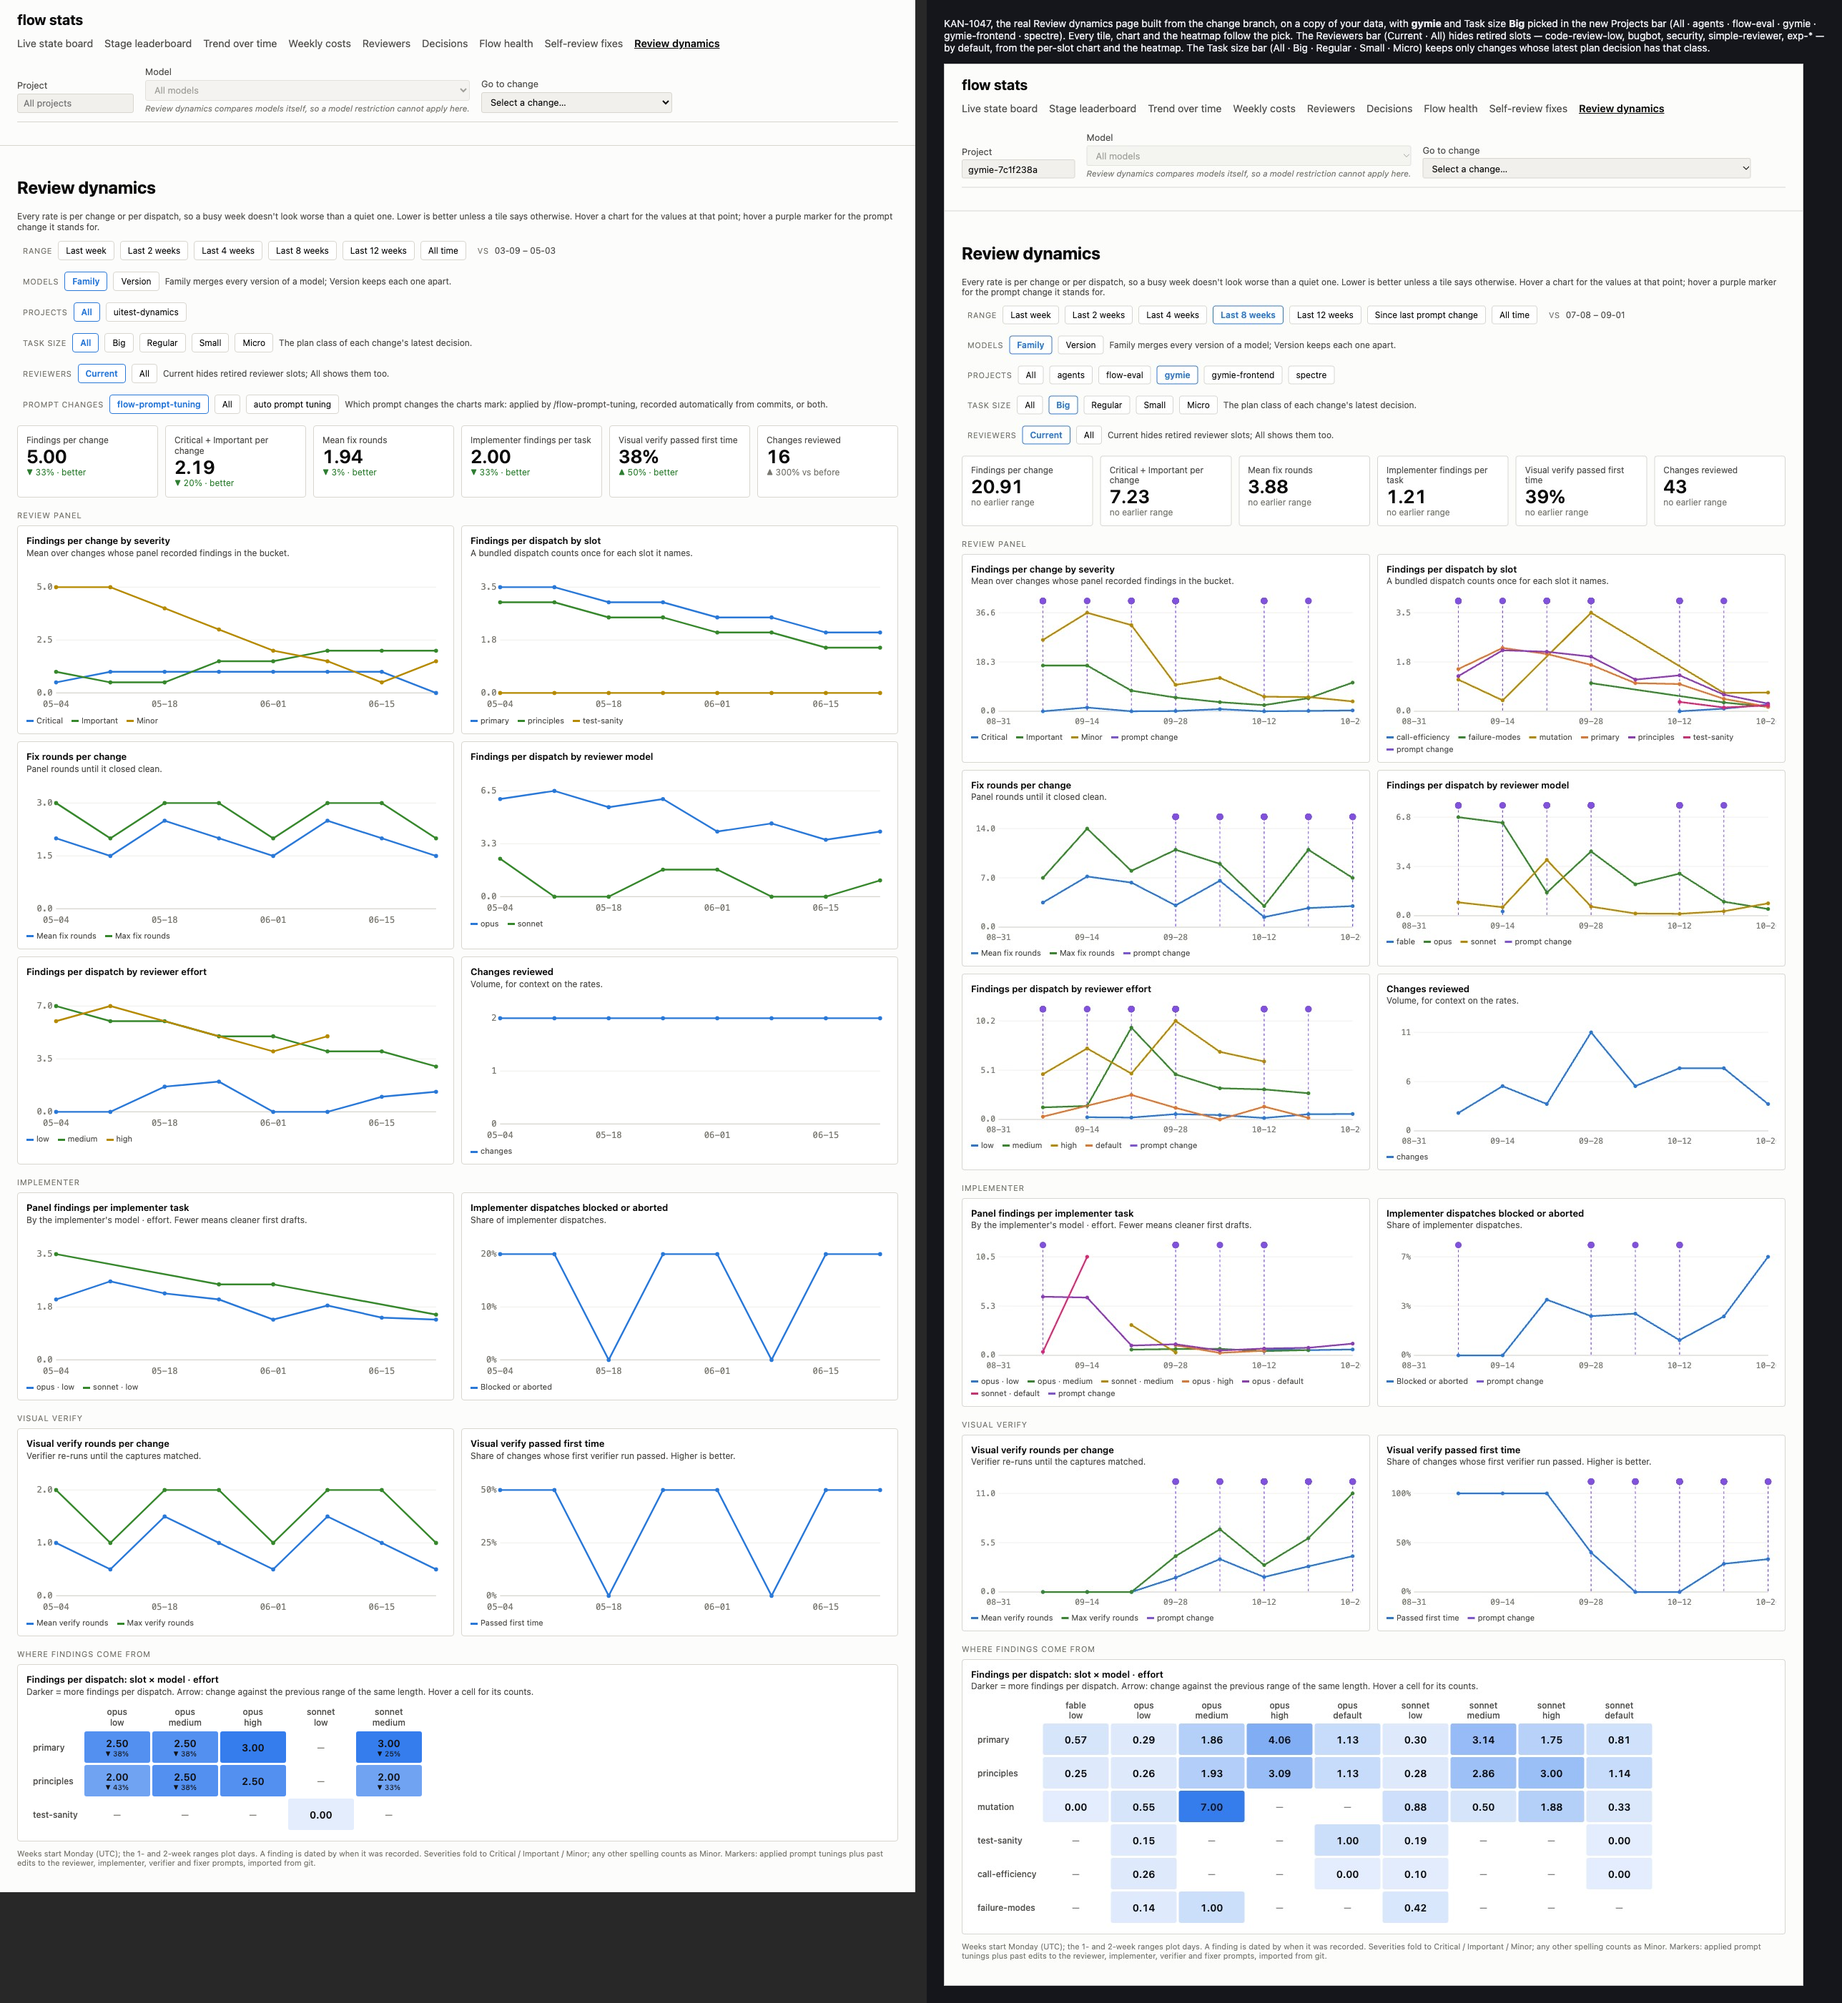
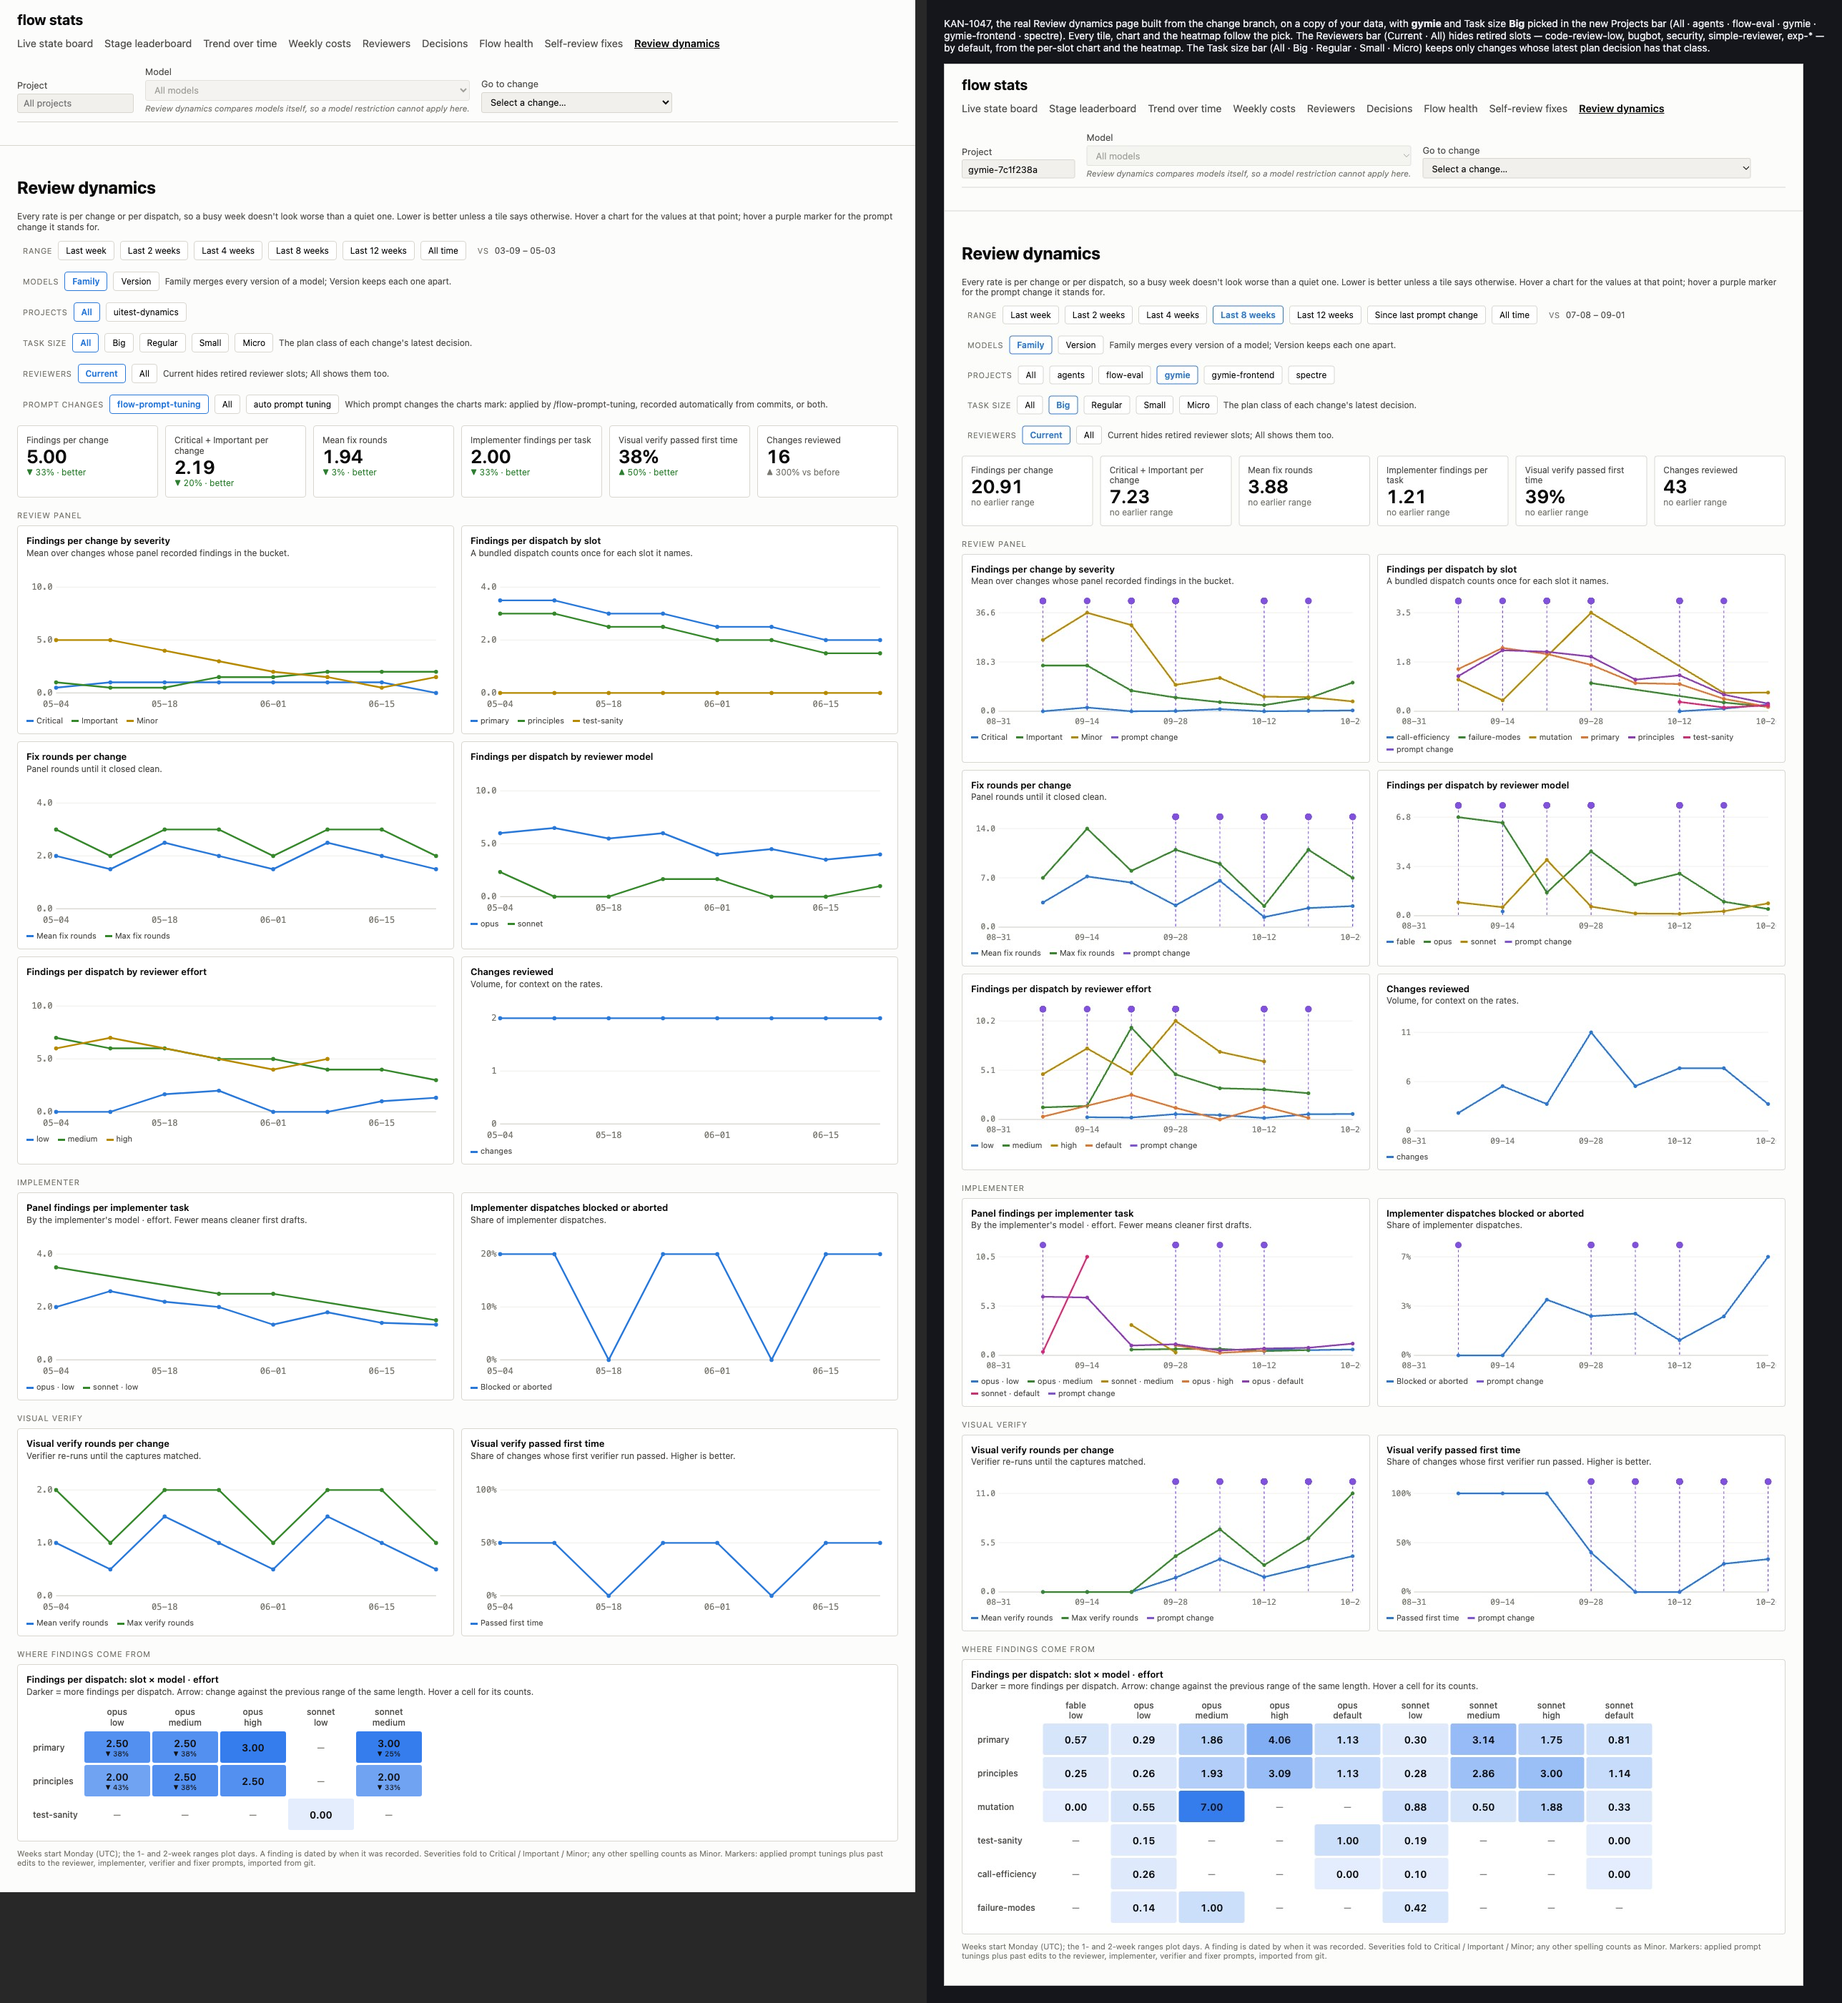
chore(spectre): plan kan-1047-review-dynamics-heatmap-by-project — narrative

diff --git a/spectre/changes/archive/kan-1047-review-dynamics-heatmap-by-project/narrative.md b/spectre/changes/archive/kan-1047-review-dynamics-heatmap-by-project/narrative.md
@@ -16,3 +16,15 @@
 - Chained from the implementation run (no review-before-landing). `prepare` passed the unfinished-work and visual gates first time; the base had not moved since the round-3 rebase onto the landed pipeline fix.
 
 In-run pipeline fix: 69938fe7946f3b09fb96e63d15f2fb4fe293eec1 — a missed fix-mutation row could never be recorded once its round re-review began, deadlocking the panel close (blast radius 3 files)
+
+## 2026-10-28 — fix run 1
+
+- The self-review pass of the second integrate run found a product defect (the sweep): Review dynamics y-axis labels named rounded values other than the ones their ticks sat at — peak 3 drew `2` at 1.5, an empty chart left its axis line unlabelled, and Task 6's blank-label fix had locked the mislabel into a test. Appended as Task 7 (archived change, append taken); re-decided `small`→`regular`, same roster.
+- Implemented inline: ticks `0, s, 2s` on a 1·2·5 step. A first rule (whole steps for whole-number data) put a 200% tick on a 0/1 share chart and was replaced, before review, by a floor read off the format.
+- Panel round 6 (small append: primary + the two extras): primary F20 (Important) — the half-only floor still let `toFixed(1)` at peak 0.06 read `0.0, 0.1, 0.1`; mutation F21–F24 — four surviving mutants. Fixed by picking the smallest step whose three labels the format tells apart; four flips mutation-proved, rows recorded `-late` (proved before the re-review, recorded after it). Round-6's mutation slot left a live mutant (`2 * s * 1.12` → `2 * s`) in the canonical worktree instead of a throwaway copy; the parent restored it before fixing.
+- Round 7 re-review (sonnet): clean of Critical/Important; Minors F25 (an all-zero share chart topped at 200%) and F26 (dead `+ 1e-9`) fixed inline.
+- Visual verify `visual-verify-fix-4-full` at 83059f85: no departures; every y label sits on its gridline.
+
+## 2026-10-28 — integrate run
+
+- Second integrate run (bare `/flow kan-1047`): `prepare` found the change archived without new work, gates green, base unmoved, route merge and push from the project default. The self-review pass stopped on the product defect above and the run went into fix run 1.

diff --git a/spectre/changes/archive/kan-1047-review-dynamics-heatmap-by-project/visual-verification.md b/spectre/changes/archive/kan-1047-review-dynamics-heatmap-by-project/visual-verification.md
@@ -53,3 +53,9 @@ none named.
 
 ## Fix run 1 (Task 7)
 - Every Review dynamics y axis now draws ticks `0, s, 2s` on a 1·2·5 step, whole when the format cannot show a half, each label at the height of the value it names (vitest `dynamics chart labels each tick with the value it sits at`). Picked state: "Changes reviewed" reads `0`, `1`, `2` with the line on `1`; "Visual verify passed first time" tops at `100%`; findings charts read e.g. `0.0`, `5.0`, `10.0`. Every `review-dynamics-*` baseline, `full-review-dynamics-darwin.png` and the full-app-suite zip were recaptured and read; `npm run test:visual`: 67 passed.
+
+## Round visual-verify-fix-4-full (HEAD 83059f85)
+
+- review-dynamics-picked: `visual-verification/evidence/review-dynamics-picked-darwin.png` — every DynamicsChart y axis labels the value its gridline sits at: "Changes reviewed" 0/1/2 with the series on the 1 gridline; "Visual verify passed first time" 0%/50%/100%; "Implementer dispatches blocked or aborted" 0%/50%/100%; count charts on 1·2·5 steps (0/5/10, 0/2/4, 0/1/2). No duplicate or blank tick. Pointer parked, no hover ink.
+- Composite `visual-verification/review-dynamics-picked.png` against prototype frame `review-dynamics`, diff=n/a (frame 1280x2802 with annotation wrapper vs capture 1280x2647). Bands 1/1 paired, height −155px, colour distance 6.9 — cause: the prototype's annotation wrapper, outside the app's ink. Seams, rows, ink and matrix n/a as in round fix-3 for the same cause; matrix `visual-verification/matrix/review-dynamics-picked.json`.
+- Departures: none.
